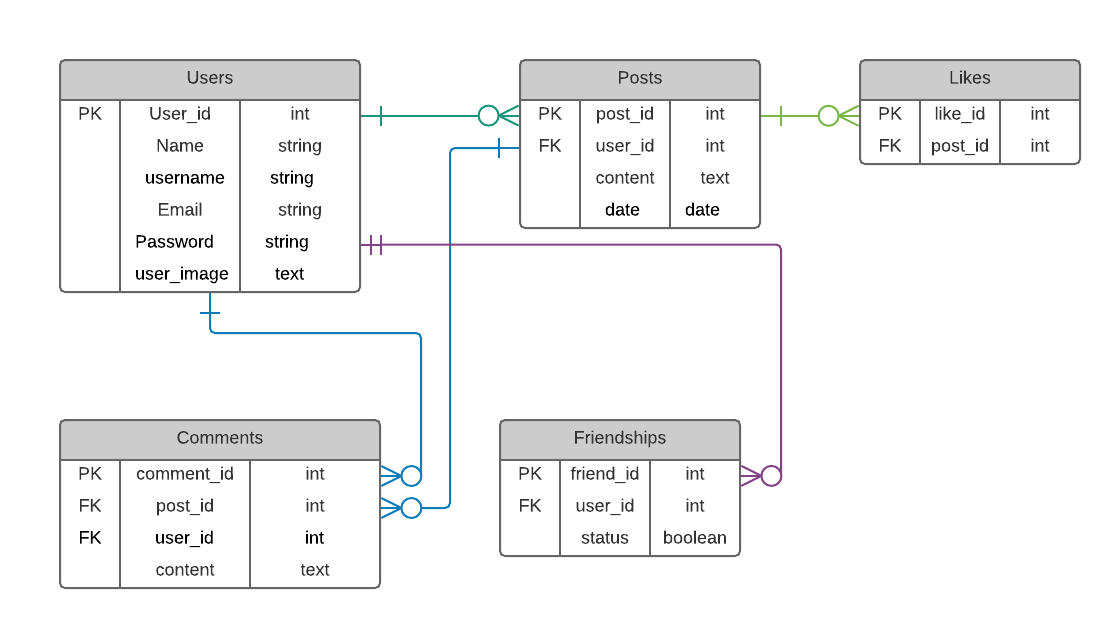
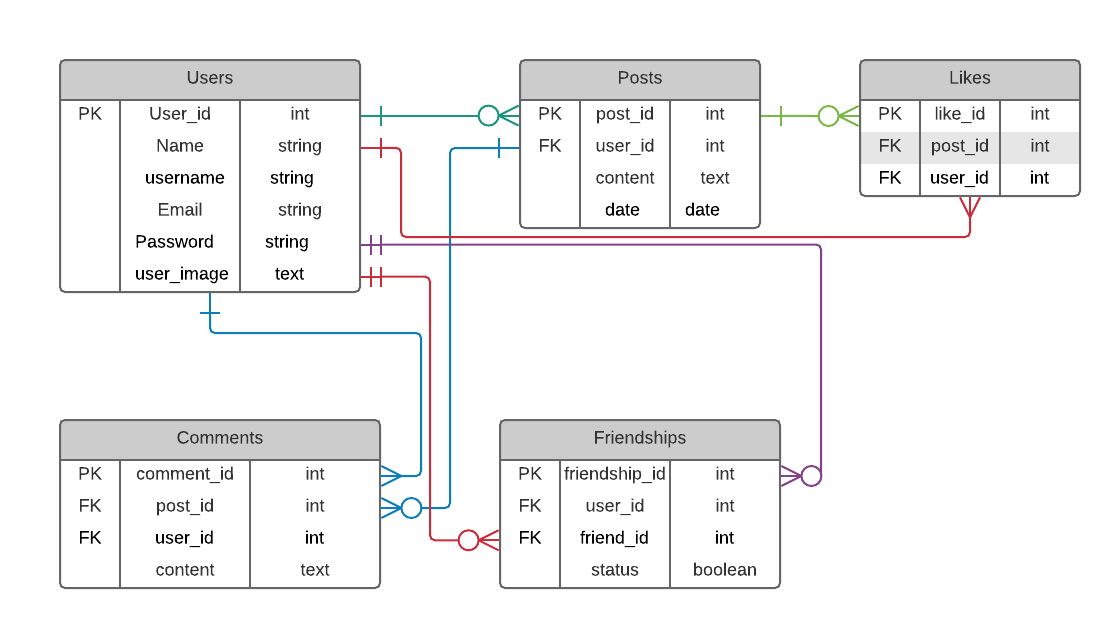
Make code review changes to the ERD on lucidchart

diff --git a/README.md b/README.md
@@ -9,7 +9,7 @@
 - LucidChart
 
 ## Live Demo
-
+https://app.lucidchart.com/documents/edit/0c2c698b-00c3-431b-aa1f-1c3cf93c067e/0_0
 
 
 ## Getting Started
